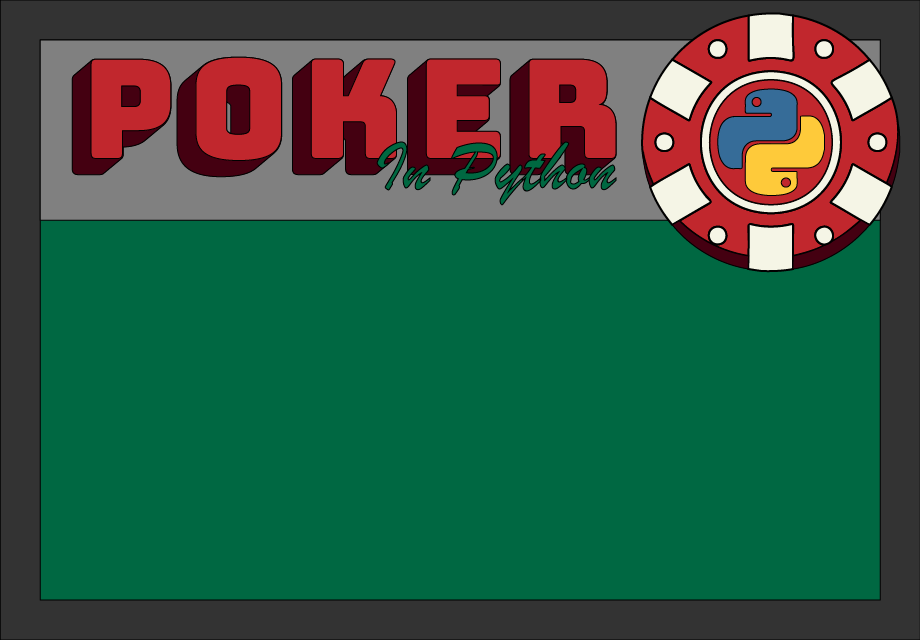
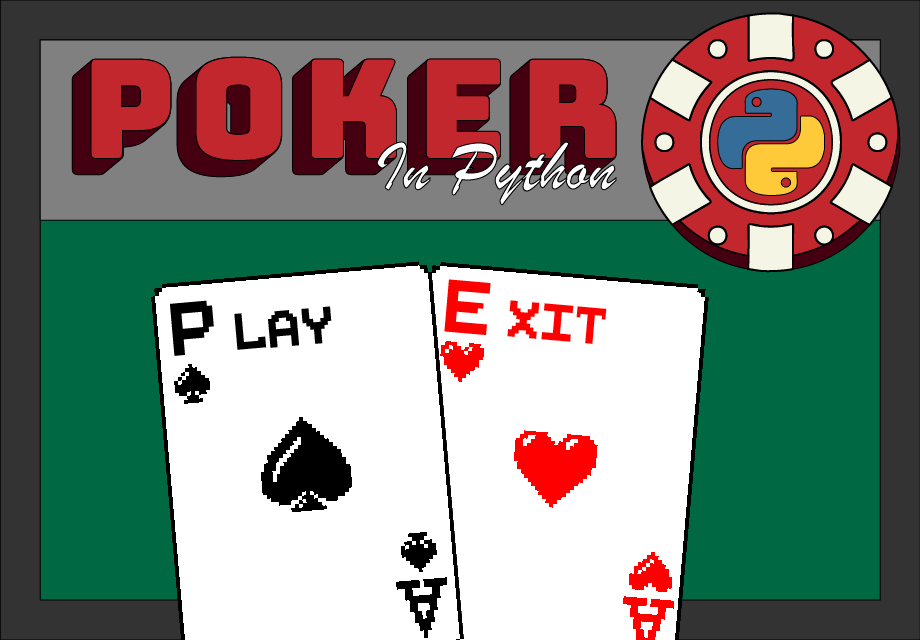
Implement main menu

diff --git a/PokerInPython/PokerInPython.py b/PokerInPython/PokerInPython.py
@@ -377,6 +377,7 @@ class PokerInPython:
         self.pot = Pot()
         self.deck = Deck.Deck()
         self.user_interface = UserInterface.UserInterface()
+        self.user_interface.change_background("UI")
 
         self.start_lead_position = 0    # Index of first player in round. Effectively the dealer.
         self.lead_position = 0  # Index of the current leading player, or player who raised last
@@ -1006,12 +1007,100 @@ class GameHandler:
 
     def __init__(self):
         self.state = "Menu"
+        self.ui = UserInterface.UserInterface()
+        self.ui.change_background("Menu")
+
+
+        self.btn_list = []
 
     def enter_menu_state(self):
         self.state = "Menu"
 
+        self.btn_list.clear()
+        btn1 = Button.Button(0, "Play", 150, 260)
+        btn2 = Button.Button(1, "Exit", 395, 253)
+        self.btn_list.extend([btn2, btn1])
+
+    def menu(self):
+
+        def check_button_presses():
+            button_pressed: Button.Button = self.ui.check_button_presses(self.btn_list)
+            if button_pressed is not None:
+                action = button_pressed.get_name()
+                return action
+            return "None"
+
+        def update():
+            draw_queue = []
+            draw_sequence = []
+
+            for button in self.btn_list:
+                draw_queue.append(button)
+
+            for item in draw_queue:
+                draw_sequence.append((item.get_image(), item.get_rect()))
+
+            self.ui.update_display(draw_sequence)
+
+        action: str = "None"
+
+        for event in pygame.event.get():
+            if event.type == pygame.QUIT:
+                sys.exit()
+            if event.type == pygame.MOUSEBUTTONDOWN:
+                action: str = check_button_presses()
+
+        if action == "Play":
+            self.exit_menu_state()
+            self.enter_game_state()
+        if action == "Exit":
+            self.state = "Exit"
+            self.exit_menu_state()
+        if action == "None":
+            update()
+        return
+
+
+    def exit_menu_state(self):
+        self.btn_list.clear()
+
+    def enter_game_state(self):
+        self.state = "Game"
+
+    def game(self):
+        a_game = PokerInPython()
+        a_game.main()
+        self.exit_game_state()
+
+    def exit_game_state(self):
+        self.state = "Menu"
+
+    def handler(self):
+
+        def clock_tick():
+            clock.tick(60)
+
+        pygame.init()
+        clock = pygame.time.Clock()
+        self.ui.init_display()
+
+        self.enter_menu_state()
+        while True:
+
+
+            if self.state == "Menu":
+                self.menu()
+            if self.state == "Game":
+                self.game()
+            if self.state == "Exit":
+                sys.exit()
+            clock_tick()
+
+
 
 
 if __name__ == '__main__':
-    game = PokerInPython()
-    game.main()
+    # game = PokerInPython()
+    # game.main()
+    game = GameHandler()
+    game.handler()

diff --git a/PokerInPython/UserInterface.py b/PokerInPython/UserInterface.py
@@ -12,7 +12,7 @@ class UserInterface:
 
         self.black = 0, 0, 0
         # self.background = 49, 117, 61
-        self.background = pygame.image.load("./Images/UI.png")
+        self.background = pygame.image.load("./Images/Menu.png")
 
         self.mouse_pos = 0, 0
 
@@ -91,3 +91,12 @@ class UserInterface:
                     card.move_to(deck_object.rect.x, deck_object.rect.y)
                 return card_pressed
             clock.tick(60)
+
+    def change_background(self, a_background: str):
+        bg_ui = "./Images/UI.png"
+        bg_menu = "./Images/Menu.png"
+
+        if a_background == "UI":
+            self.background = pygame.image.load(bg_ui)
+        elif a_background == "Menu":
+            self.background = pygame.image.load(bg_menu)
